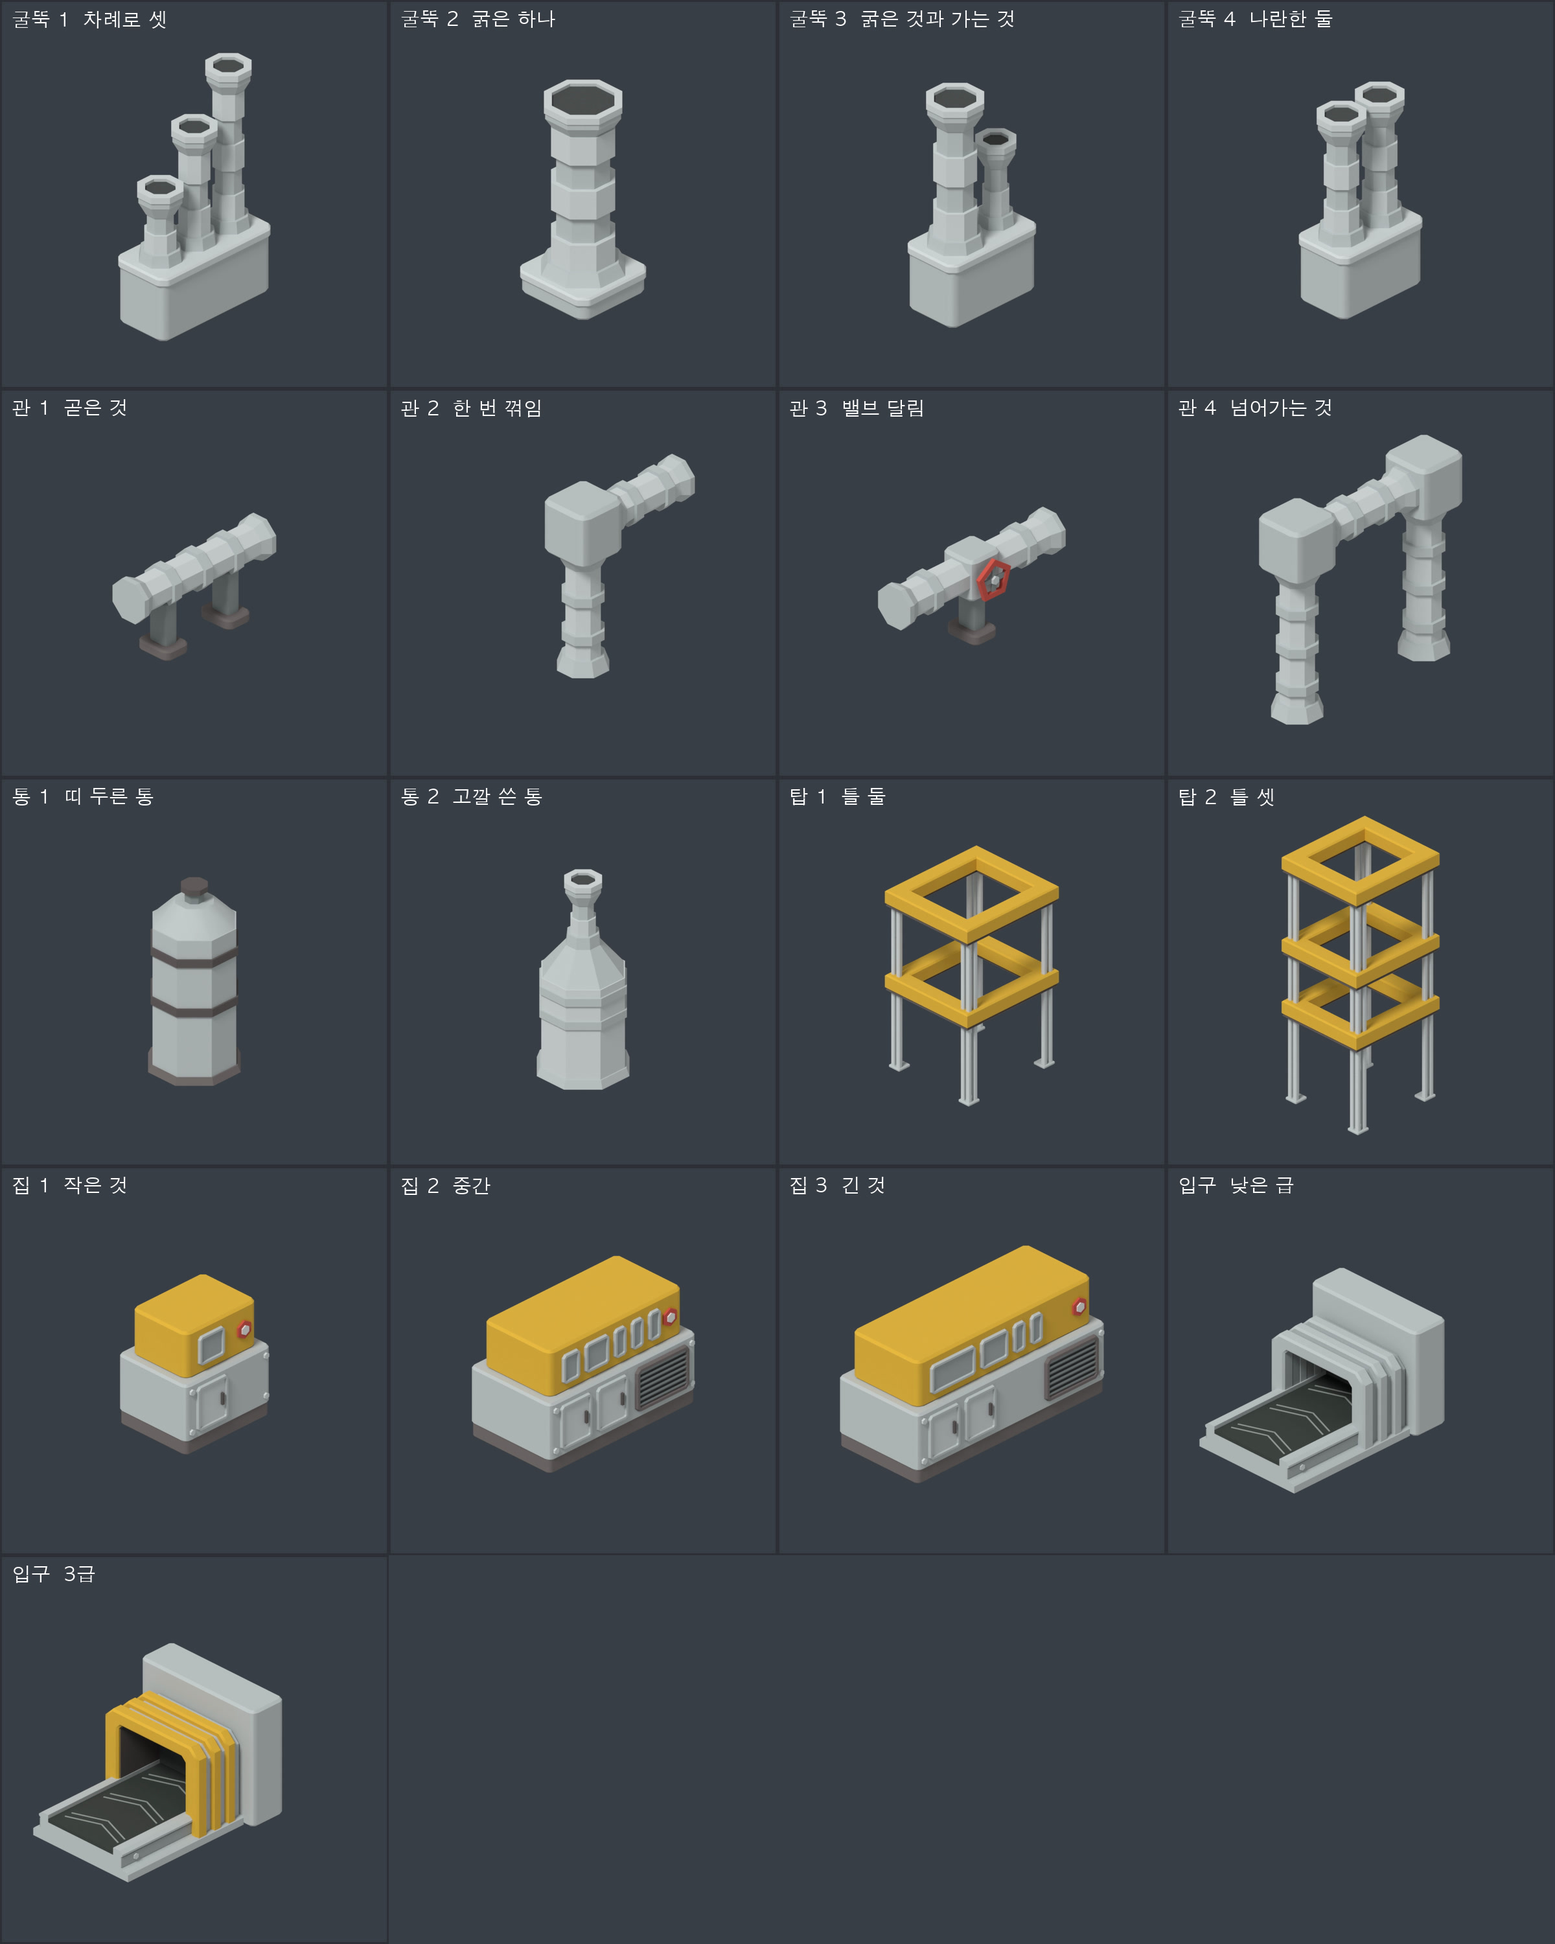
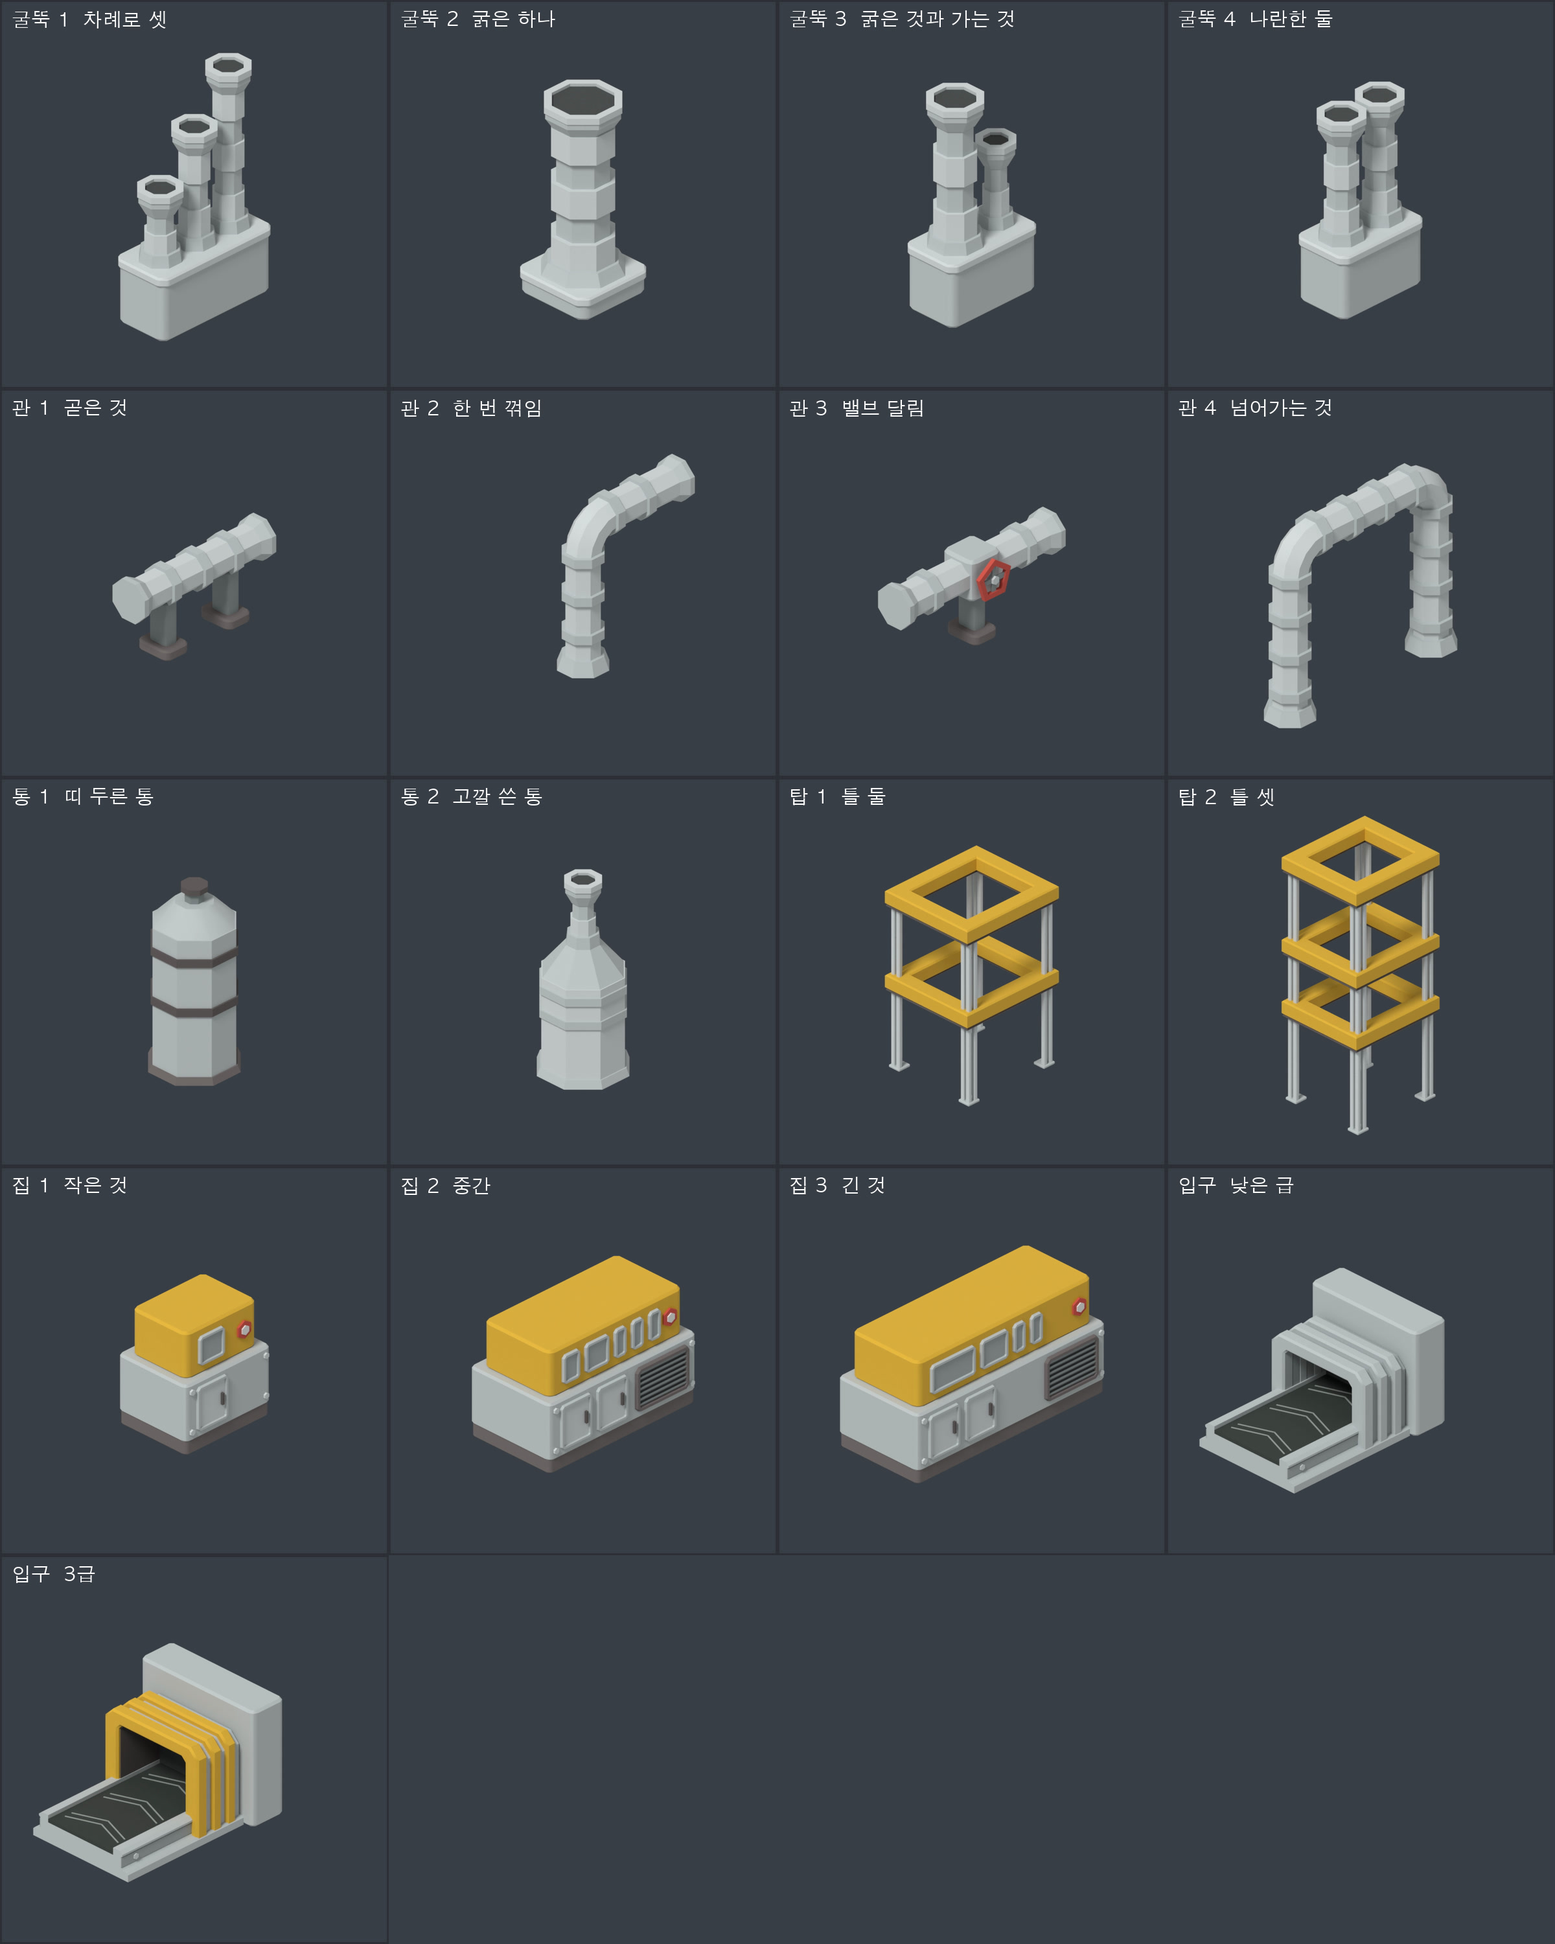
Pipes turn in a bend of the pipe itself, not through a box
The developer asked for the corner box to go and the pipe to run on
round the corner. _bend carries the pipe's eight-sided section round a
quarter circle in four lengths, with a ring at each end; the straight
pipes' rings are counted off from those so the pitch carries on. The
kit's one-turn and over pipes and the steel mill's third pipe use it.

Claude-Session: https://claude.ai/code/session_01W5XMnWw2PL68atZgiMiQxw

Changed region(s): [[0.8125, 0.217, 0.9375, 0.372], [0.3438, 0.248, 0.4062, 0.31]]

diff --git a/art/v2/kitset.py b/art/v2/kitset.py
@@ -19,6 +19,7 @@ import math
 from . import hero as _hero
 from . import set2 as s2
 from .base import loft_x, offset_closed
+from .belts import loft
 
 RD = 0.105               # the fat duct's radius
 PLEN = 0.42              # a plenum's height: tall enough that a duct's socket sits wholly in plain wall under the rim
@@ -95,10 +96,12 @@ def _socket(m, axis, end, d, at, swell=True):
     m.cyl(big, thick, loc(end - d * thick / 2), s2.G, seg=8, axis=axis, rot=rot)
 
 
-def _run(m, axis, c0, c1, at, skip=(), ends=(True, True)):
+def _run(m, axis, c0, c1, at, skip=(), ends=(True, True), pitch_from=None):
     """A fat duct from c0 to c1 along `axis`, of any length: ringed at the pitch, and swelling into a socket
     at each end that meets another part. `skip` lists (lo, hi) stretches where something else sits on the
-    pipe (a valve), and no ring is put there."""
+    pipe (a valve), and no ring is put there. An end that runs on into a bend takes no socket
+    (ends=False there); `pitch_from` is then where the bend's own ring stands, and this pipe's rings are
+    counted off from it, so that the pitch carries on round the bend."""
     rot = {"X": (s2.rad(22.5), 0, 0), "Y": (0, s2.rad(22.5), 0), "Z": s2.rad(22.5)}[axis]
 
     def loc(c):
@@ -109,22 +112,25 @@ def _run(m, axis, c0, c1, at, skip=(), ends=(True, True)):
     short = c1 - c0 < SHORT                                    # too short to swell at both ends and still be a pipe between
     keep = (SOCK[2] if short else SOCK[1] + SOCK[2]) + 0.05
     lo, hi = c0 + (keep if ends[0] else 0.0), c1 - (keep if ends[1] else 0.0)
-    if hi - lo >= RING:
-        for c in _ring_at(lo, hi, clear=0.03):
-            if not any(a - RING <= c <= b + RING for a, b in skip):
-                m.cyl((RD + 0.022) * s2.K, RING, loc(c), s2.G, seg=8, axis=axis, rot=rot)
+    if pitch_from is not None:
+        rings = [c for c in (pitch_from + k * PITCH for k in range(-40, 41)) if abs(c - pitch_from) > 1e-6 and lo + RING / 2 <= c <= hi - RING / 2]
+    else:
+        rings = _ring_at(lo, hi, clear=0.03) if hi - lo >= RING else []
+    for c in rings:
+        if not any(a - RING <= c <= b + RING for a, b in skip):
+            m.cyl((RD + 0.022) * s2.K, RING, loc(c), s2.G, seg=8, axis=axis, rot=rot)
     if ends[0]:
         _socket(m, axis, c0, -1, at, swell=not short)
     if ends[1]:
         _socket(m, axis, c1, 1, at, swell=not short)
 
 
-def _run_x(m, x0, x1, y, z, skip=(), ends=(True, True)):
-    _run(m, "X", x0, x1, (y, z), skip, ends)
+def _run_x(m, x0, x1, y, z, skip=(), ends=(True, True), pitch_from=None):
+    _run(m, "X", x0, x1, (y, z), skip, ends, pitch_from)
 
 
-def _run_y(m, y0, y1, x, z, skip=(), ends=(True, True)):
-    _run(m, "Y", y0, y1, (x, z), skip, ends)
+def _run_y(m, y0, y1, x, z, skip=(), ends=(True, True), pitch_from=None):
+    _run(m, "Y", y0, y1, (x, z), skip, ends, pitch_from)
 
 
 def _pier(m, x, y, top):
@@ -133,21 +139,37 @@ def _pier(m, x, y, top):
         s2.slab(m, 0.05, 0.075, 0.05, top, 0.015, s2.ST, bevel=0.01)
 
 
-ELBOW = 0.18              # half the corner box of a pipe: clearly bigger than the flanges that meet it (0.135),
-#                           so that the joints do not look too small on it (the developer, 2026-10-09)
-INTO = ELBOW - 0.012      # how far from the box's middle a pipe meeting it stops
+BEND = 0.20               # the radius a pipe turns at, measured to its middle
 
 
-def _elbow(m, x, y, z):
-    with m.at((x, y, 0)):
-        s2.slab(m, ELBOW, ELBOW, z - ELBOW, z + ELBOW, 0.04, s2.G, bevel=0.024)
+def _bend(m, corner, d_in, d_out):
+    """A pipe's turn: the pipe itself carried round a quarter circle, in four short lengths, from heading
+    d_in to heading d_out (two of the six axis directions, square to one another), with a ring where it
+    starts and where it ends. `corner` is where the two straight pipes' middles would meet; they stop
+    BEND short of it. No box: the developer wanted the pipe to run on round the corner (2026-10-09)."""
+    from mathutils import Vector as V
+    c, a, b = V(corner), V(d_in), V(d_out)
+    mid, side = c - a * BEND + b * BEND, a.cross(b)
+    r, rings = RD * s2.K, []
+    for k in range(5):
+        th = math.pi / 2 * k / 4
+        at = mid - b * BEND * math.cos(th) + a * BEND * math.sin(th)
+        out = (a * math.cos(th) + b * math.sin(th)).cross(side)
+        rings.append([tuple(at + (out * math.cos(f) + side * math.sin(f)) * r)
+                      for f in (math.pi / 8 + j * math.pi / 4 for j in range(8))])
+    loft(m, rings, s2.LT)
+    for at, d in ((c - a * BEND, a), (c + b * BEND, b)):      # the rings at its two ends
+        axis = "XYZ"[max(range(3), key=lambda k: abs(d[k]))]
+        rot = {"X": (s2.rad(22.5), 0, 0), "Y": (0, s2.rad(22.5), 0), "Z": s2.rad(22.5)}[axis]
+        m.cyl((RD + 0.022) * s2.K, RING, tuple(at), s2.G, seg=8, axis=axis, rot=rot)
 
 
-def _riser(m, x, y, z0, z1):
-    """A fat duct standing up out of a flared foot to z1, ringed at the pitch, a socket at its top."""
+def _riser(m, x, y, z0, z1, top=True):
+    """A fat duct standing up out of a flared foot to z1, ringed at the pitch: a socket at its top, or
+    (top=False) none, to run on into a bend."""
     with m.at((x, y, 0)):
         s2.octa(m, RD + 0.05, RD + 0.02, z0 - 0.01, z0 + 0.08, s2.G)
-    _run(m, "Z", z0 + 0.07, z1, (x, y), ends=(False, True))
+    _run(m, "Z", z0 + 0.07, z1, (x, y), ends=(False, top), pitch_from=None if top else z1)
 
 
 def k_pipe_straight(m, L=1.1, z=0.45):
@@ -158,10 +180,10 @@ def k_pipe_straight(m, L=1.1, z=0.45):
 
 
 def k_pipe_elbow(m, H=0.95, L=0.80, z0=0.0):
-    """Pipe, one turn: up out of a foot, through a box elbow, and away level, ringed all the way."""
-    _riser(m, 0, 0, z0, z0 + H - INTO)
-    _elbow(m, 0, 0, z0 + H)
-    _run_x(m, INTO, L, 0, z0 + H)
+    """Pipe, one turn: up out of a foot, round a bend, and away level, ringed all the way."""
+    _riser(m, 0, 0, z0, z0 + H - BEND, top=False)
+    _bend(m, (0, 0, z0 + H), (0, 0, 1), (1, 0, 0))
+    _run_x(m, BEND, L, 0, z0 + H, ends=(False, True), pitch_from=BEND)
 
 
 def k_pipe_valve(m, L=1.3, z=0.45):
@@ -174,12 +196,14 @@ def k_pipe_valve(m, L=1.3, z=0.45):
         s2.handwheel(m, 0.14)
 
 
-def k_pipe_bridge(m, H=1.15, L=1.06, z0=0.0):
-    """Pipe, over: up, across through two box elbows, and down again (the former's duct), ringed all the way."""
+def k_pipe_bridge(m, H=1.15, L=2 * BEND + 3 * PITCH, z0=0.0):
+    """Pipe, over: up, round a bend, across, round another and down again, ringed all the way (the
+    crossing is a whole number of pitches long, so the rings keep step from bend to bend)."""
     for x in (-L / 2, L / 2):
-        _riser(m, x, 0, z0, z0 + H - INTO)
-        _elbow(m, x, 0, z0 + H)
-    _run_x(m, -L / 2 + INTO, L / 2 - INTO, 0, z0 + H)
+        _riser(m, x, 0, z0, z0 + H - BEND, top=False)
+    _bend(m, (-L / 2, 0, z0 + H), (0, 0, 1), (1, 0, 0))
+    _bend(m, (L / 2, 0, z0 + H), (1, 0, 0), (0, 0, -1))
+    _run_x(m, -L / 2 + BEND, L / 2 - BEND, 0, z0 + H, ends=(False, False), pitch_from=-L / 2 + BEND)
 
 
 def _port(m, r, side, z0):

diff --git a/art/v2/set2.py b/art/v2/set2.py
@@ -4058,7 +4058,8 @@ def mill14(m, paint="h_p1", trim=False):
     - the mouths are the kit's grade 3 mouth (three thick painted ribs, deep), so the low block's walls
       stand further back from the cell's edge;
     - on the low block's roof the kit's rising three stacks on their plenum, two straight kit pipes from
-      the furnace into the plenum's side, and a third through the kit's elbow, crossing higher; every
+      the furnace into the plenum's side, and a third that turns through the kit's bend (the pipe
+      itself carried round, no box), crossing higher; every
       pipe ringed at the pitch and swelling into a flange where it meets a wall;
     - in the furnace's back corner the kit's big stack, straight on the roof (the developer had the
       plate under it taken away).
@@ -4155,10 +4156,10 @@ def mill14(m, paint="h_p1", trim=False):
     ys2 = yc - fy + 0.03                                      # the furnace's upper wall, facing the low block
     for x in (0.05, 0.47):
         kit._run_y(m, yb + 0.20 - 0.012, ys2 + 0.012, x, zq)
-    xw, zq2 = -0.55, 1.53                                     # the third: up through an elbow, across higher
-    kit._riser(m, xw, yb, Zr, zq2 - kit.INTO)
-    kit._elbow(m, xw, yb, zq2)
-    kit._run_y(m, yb + kit.INTO, ys2 + 0.012, xw, zq2)
+    xw, zq2 = -0.55, 1.53                                     # the third: up, round a bend, across higher
+    kit._riser(m, xw, yb, Zr, zq2 - kit.BEND, top=False)
+    kit._bend(m, (xw, yb, zq2), (0, 0, 1), (0, 1, 0))
+    kit._run_y(m, yb + kit.BEND, ys2 + 0.012, xw, zq2, ends=(False, True), pitch_from=yb + kit.BEND)
     if trim:
         for x in (-0.25, 0.80):                                   # two ribs on the furnace's wall over the low block, clear of the pipes
             with on_side(m, -1, ys2, zu, xc=x):

diff --git a/docs/modeling-principles.md b/docs/modeling-principles.md
@@ -54,7 +54,7 @@
 - **하는 일을 그림처럼 보여 주려 애쓰지 않습니다 [개발자 결정, 2026-10-09].** 위의 "그 기계가 하는 일이 보이게"를 제철소에 적용해 실제 공정(고로, 전로, 도가니, 전기로)을 차례로 따져 봤고, 개발자가 실제 전기로의 모습을 찾아본 뒤 "ㅈㄴ 짜치게 생겼다"며 접었습니다. 결론: "그냥 우리도 적당히 복잡하고 적당히 심플하게 생긴 기계 안에 들어가서 강철이 되어 나오는 그런 느낌으로 가야겠다." 기계는 한 대씩 따로 설계하되, 속에서 벌어지는 일을 겉으로 재현하지는 않습니다. 재료가 들어가고 물건이 나오는, 그럴듯한 기계이면 됩니다. 복잡함의 기준은 확정된 `former5`입니다.
 - **관은 밋밋하게 두지 않습니다. 모든 관에 고리가 일정한 간격으로 되풀이됩니다 [개발자 지시, 2026-10-09].** "모든 관은 항상 밋밋하지 않게 반복적인 패턴이 있게. 지금도 관에 링 같은 애들이 반복되는 것처럼." 굵은 관은 누운 것이든 선 것이든 0.26칸마다 고리 하나를 두릅니다(`kitset.PITCH`, `_run_x`, `_run_y`, `_riser`). 밸브처럼 다른 것이 앉은 자리만 건너뜁니다. 굴뚝은 마디가 번갈아 굵어지는 것이 그 되풀이입니다(`fat_stack`).
 - **관의 길이는 필요한 만큼 늘고 줄며, 관의 끝은 다른 부품과 만나는 자리에서 조금 굵어집니다 [개발자 지시, 2026-10-09].** 관은 길이를 받는 함수 하나로 짓습니다(`kitset._run`): 고리는 길이에 맞춰 0.26칸 간격으로 저절로 놓이고, 양 끝은 벌어지며 테(플랜지)로 끝납니다. 이음매가 만나는 부품보다 커서는 안 됩니다. 처음에는 이음매가 모음통의 테와 통의 띠를 파고들었고, 통의 한 면보다 넓어 모서리에 걸쳤고, 짧은 관은 이음매만 남았습니다(개발자: "이건 너가 봐도 좀 이상하지 않니?"). 그래서: 모음통은 이음매가 테 밑 맨 벽에 다 들어가도록 높이 0.42, 관이 들어오는 높이 0.20. 통은 굵게(반지름 0.28) 하고 띠는 위쪽에 두며, 관이 들어오는 자리에는 이음매보다 조금 큰 받침판을 댑니다(`_port`). 0.42칸보다 짧은 관은 벌어지지 않고 테만 답니다. 관의 끝은 만나는 부품 속으로 0.012칸 들어갑니다.
-- **제철소의 벽에 붙인 것을 전부 뗐습니다 [개발자 지시, 2026-10-09 / 뗀 뒤의 평가 전].** 개발자가 벽의 갈빗대, 들어간 판과 문을 짚으며 "이런 3D 데칼들도 싹 다 떼봐봐"라고 했습니다. 갈빗대, 들어간 판, 문, 루버, 돌림바퀴, 몸통의 판과 배지, 계기판, 모서리 볼트를 다 뗐습니다(`mill14(trim=True)`로 되살릴 수 있음). 남은 것은 덩어리와 틀, 굴뚝, 관, 입구, 지붕의 창살입니다. 같은 날 굴뚝 밑의 받침판도 없앴고(굴뚝은 제 밑동으로 지붕에 바로 섭니다), 관이 꺾이는 상자는 이음매보다 확실히 크게 키웠습니다(`kitset.ELBOW = 0.18`, 이음매는 0.135).
+- **제철소의 벽에 붙인 것을 전부 뗐습니다 [개발자 지시, 2026-10-09 / 뗀 뒤의 평가 전].** 개발자가 벽의 갈빗대, 들어간 판과 문을 짚으며 "이런 3D 데칼들도 싹 다 떼봐봐"라고 했습니다. 갈빗대, 들어간 판, 문, 루버, 돌림바퀴, 몸통의 판과 배지, 계기판, 모서리 볼트를 다 뗐습니다(`mill14(trim=True)`로 되살릴 수 있음). 남은 것은 덩어리와 틀, 굴뚝, 관, 입구, 지붕의 창살입니다. 같은 날 굴뚝 밑의 받침판도 없앴고(굴뚝은 제 밑동으로 지붕에 바로 섭니다), 관이 꺾이는 자리는 상자를 키워 봤다가, 곧 상자를 없애고 **관 자체가 휘어 넘어가게** 바꿨습니다("저 직육면체를 없애고 파이프가 자연스럽게 이어지는 굴곡 형태로"). 관의 팔각 단면을 4분의 1 원을 따라 네 토막으로 이어 가고, 휘기 시작하는 곳과 끝나는 곳에 고리를 하나씩 두며, 곧은 관의 고리는 그 고리에서부터 같은 간격으로 셉니다(`kitset._bend`, 반지름 `BEND = 0.20`). 묶음의 꺾이는 관과 넘어가는 관도 같습니다.
 - **모서리는 맞닿은 자리까지 전부 깎습니다 [개발자 확정, 2026-10-09].** 덩어리들이 떨어져 보인다는 말에, 다른 덩어리에 닿은 모서리만 안 깎는 방식을 해 봤습니다(`factorykit.FLUSH_JOINTS`). 전과 후를 본 개발자의 답은 "전꺼가 낫다"였습니다. 맞닿는 자리의 V자 홈은 그대로 둡니다. 장치는 남겨 두되 꺼 놨습니다(`base.FLUSH = False`). 칠한 틀 밑의 어두운 띠도 그대로입니다("1번은 괜찮음").
 - **굴뚝과 관 말고 더해 본 묶음 다섯은 전부 기각됐습니다 [개발자, 2026-10-09].** 깔때기, 달팽이 송풍기, 톱니바퀴, 발판과 사다리, 들보와 갈고리("싹 다 기각"). 묶음에서 뺐습니다. 대신 **갈빗대와 틀 같은 것은 상황에 따라 괜찮다**고 했고, **루버와 화로 위 창살 같은 것은 필요하면 알아서 넣으라**고 했습니다. 제철소의 창살은 커야 합니다("제철소면 창살이 좀 큰 게 맞을 듯"). `set2.grate`가 그 큰 창살입니다(붉은 네온 위에 굵은 살, 두꺼운 테).
 - **입구의 돌기는 굵고 적게, 모서리는 깎아서 부드럽게. 낮은 급의 입구는 더 낮게 [개발자 지시, 2026-10-09].** 가는 주름 여섯이 아니라 굵은 돌기 셋에 사이를 한 칸씩 띄웁니다("2개씩 합치고 한 칸을 띄우는 방식으로... 적당히 굵고 적은 느낌"). 돌기의 모서리는 0.016칸 깎습니다. 낮은 급은 회색 돌기에 높이 0.70, 3급은 칠한 돌기에 높이 0.82이고 사이는 회색 소매입니다. 입구는 `kitset.mouth(m, 벽, 방향, 급)` 하나로만 짓습니다. 예전의 `d.cover`와 `set2.mouth3`은 옛 모델을 위해 남겨 둔 것이고 새 기계에는 쓰지 않습니다.
